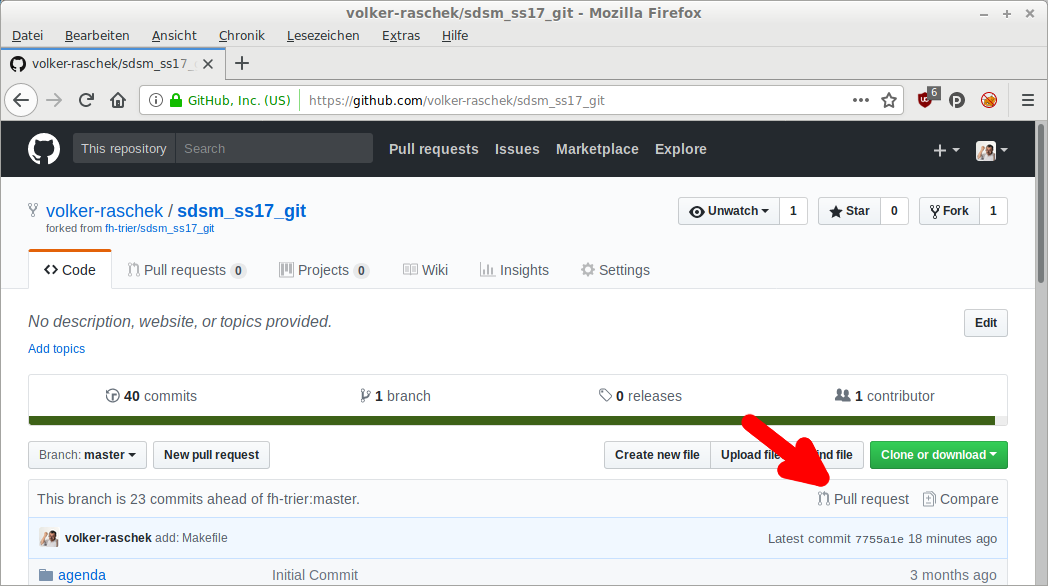
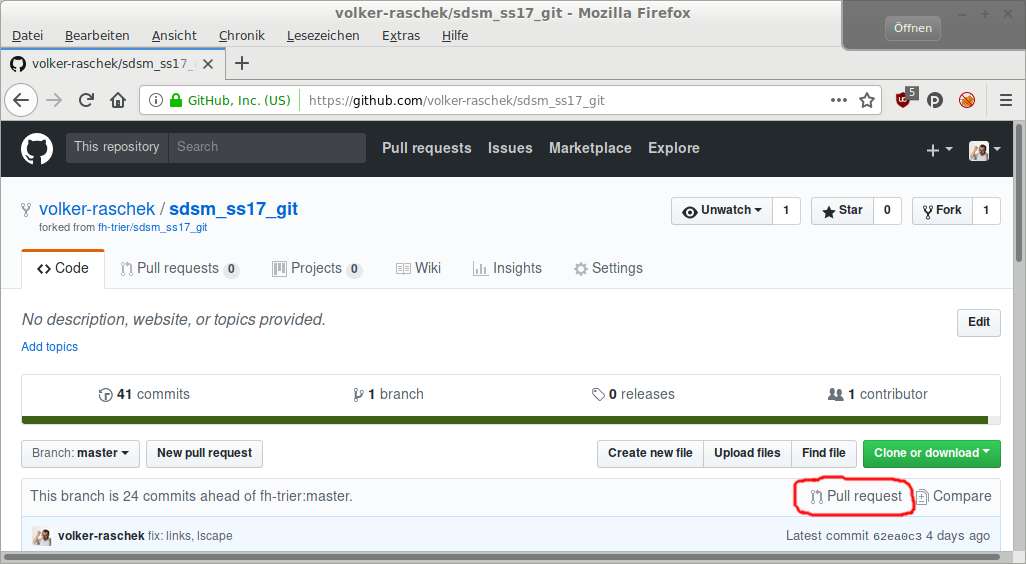
fix: chapter 4.8 - merge request

diff --git a/kapitel/kapitel_04.tex b/kapitel/kapitel_04.tex
@@ -139,13 +139,30 @@ To git@github.com:hugo-mckinnock/sdsm_ss17_git.git
 
 \subsection{Änderungen einreichen}
 \label{sec:work-with-git.send-merge-request}
-Um Änderungen an das Repository einzureichen, von dem man in Abschnitt \ref{sec:workflow.einrichtung} alles geklont hat, muss ein \textit{Merge Request} oder auch schon mal \textit{Pull Request} auf jener Plattform erstellt werden. Exemplarisch wird dies nun auf der Plattform \href{https://github.com}{GitHub} vorgenommen. Dabei ist es wichtig zuerst sein eigenes Online-Repository mit einem Browser zu öffnen.
+Um Änderungen an das Repository einzureichen, von dem man in Abschnitt \ref{sec:workflow.einrichtung} alles geklont hat, muss ein \textit{Merge Request} oder auch schon mal \textit{Pull Request} genannt, auf jener Plattform erstellt werden. Exemplarisch wird dies nun auf der Plattform \href{https://github.com}{GitHub} vorgenommen. Dabei ist es wichtig zuerst sein eigenes Online-Repository mit einem Browser zu öffnen. Dort ist ein Link vorhanden der einen \textit{Merge Request} erzeugt.
 
-\begin{landscape}
-  \begin{figure}[h]
-    \centering
-    \includegraphics[width=1\textwidth]{images//pull-request.png}
-    \label{img:github-pull-request}
-  \end{figure}
-\end{landscape}
+\begin{figure}[H]
+  \centering
+  \includegraphics[width=1\textwidth]{images//pull-request.png}
+  \label{img:github-pull-request}
+  \caption{GitHub: Merge/Pull Request}
+\end{figure}
+
+In der Abbildung \ref{img:github-pull-request-select-branches} sind vier Drop-Down-Menüs zu erkennen. Im ersten wird das Repository der Hauptverantwortlichen mit Branch ausgewählt. In den anderen zwei Drop-Down-Menüs das eigene Repository und der Branch, indem die eigenen Veränderungen vorliegen.
+
+\begin{figure}[H]
+  \centering
+  \includegraphics[width=1\textwidth]{images//pull-request2.png}
+  \label{img:github-pull-request-select-branches}
+  \caption{GitHub: Auswählen von Repositories und Branches}
+\end{figure}
+
+Anschließend wird eine Seite eingeblendet, in der man kurz Verfassen soll, was am Quellcode geändert wurde. Damit die Hauptverantwortlichen den Quellcode nachvollziehen können.
+
+\begin{figure}[H]
+  \centering
+  \includegraphics[width=1\textwidth]{images//pull-request3.png}
+  \label{img:github-pull-request-description}
+  \caption{GitHub: Beschreibung des Merge Request}
+\end{figure}
 
